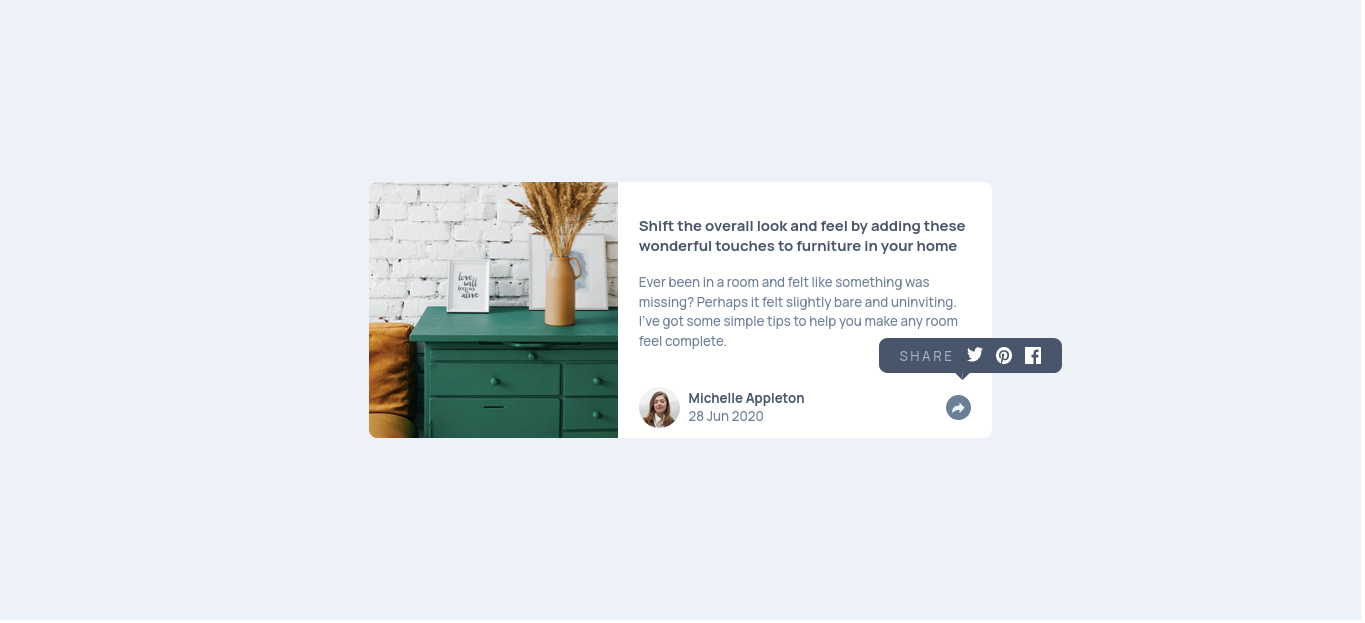
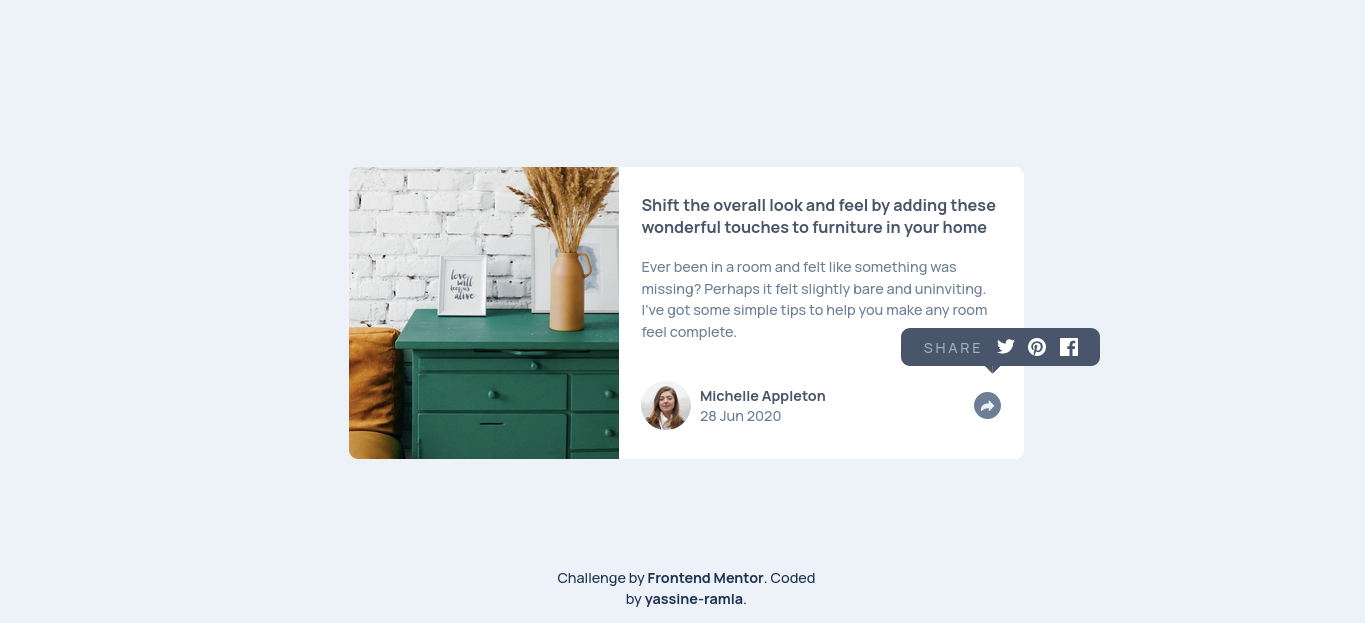
updating the solution links + adding some bottom padding + new screenshots

Changed region(s): [[0.2462, 0.244, 0.8308, 0.7624], [0.4, 0.9149, 0.6154, 0.9759]]

diff --git a/style.css b/style.css
@@ -50,7 +50,7 @@ main>section {
 
 .states {
     width: 100%;
-    height: 75px;
+    height: 80px;
     margin-top: auto;
 }
 
@@ -188,13 +188,21 @@ footer a:hover {
 
     main>section {
         width: 60%;
+        padding-top: 30px;
         display: flex;
         flex-direction: column;
         justify-content: space-between;
     }
 
+    .states {
+        height: 100px;
+        padding-bottom: 20px;
+    }
+
     #active-state {
         border-radius: 0 0 10px 0;
+        padding-bottom: 20px;
+        height: 100px;
     }
 
     footer {

diff --git a/README.md b/README.md
@@ -30,8 +30,8 @@ Users should be able to:
 
 ### Links
 
-- Solution URL: [solution URL](https://your-solution-url.com)
-- Live Site URL: [live site URL](https://your-live-site-url.com)
+- Solution URL: [solution URL](https://www.frontendmentor.io/solutions/a-simple-component-using-html-and-css-KLB9jFOhR2)
+- Live Site URL: [live site URL](https://yassine-ramla.github.io/Frontend-Mentor_Article-preview-component-solution/)
 
 ## My process
 
